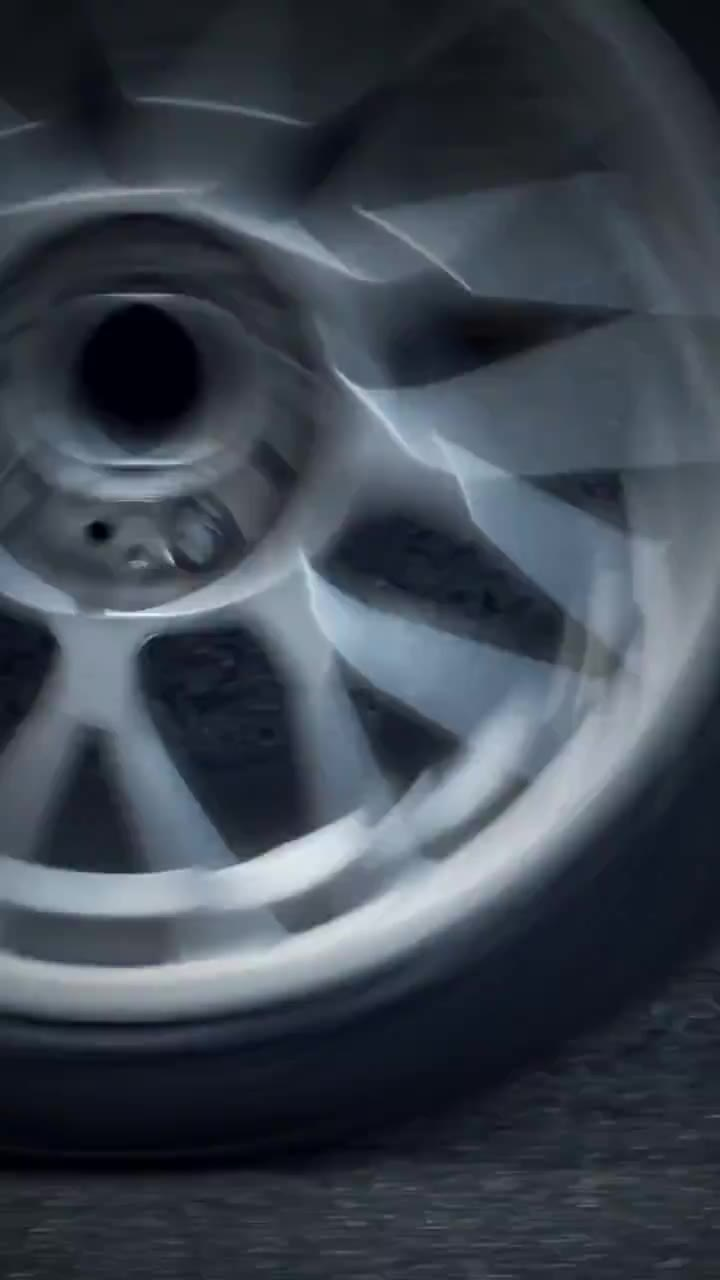
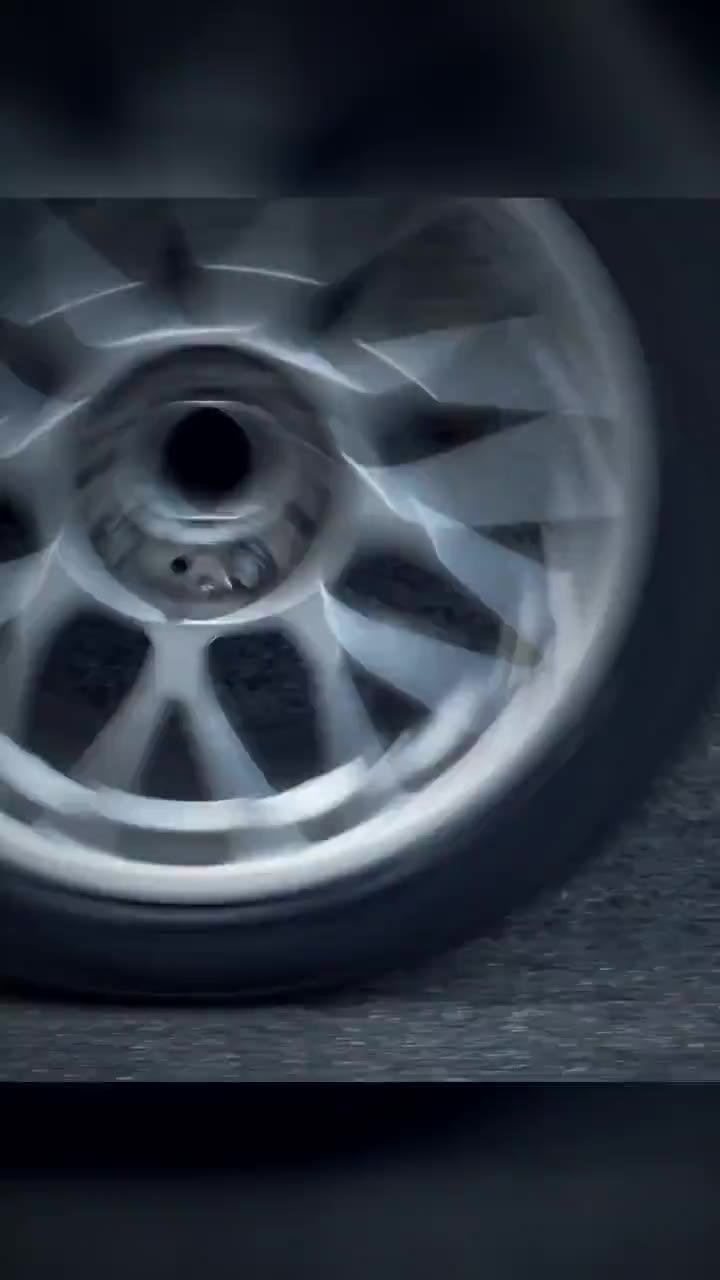
Hero: fix autoplay Safari (src directo + canPlayType), version movil alejada, moto 4s

diff --git a/index.html b/index.html
@@ -686,18 +686,11 @@
         if (!v) return;
         if (window.matchMedia('(prefers-reduced-motion: reduce)').matches) return;
         var isMobile = window.matchMedia('(max-width: 767px)').matches;
-        var srcs = isMobile
-          ? [['videos/hero-quesada-movil.webm', 'video/webm'],
-             ['videos/hero-quesada-movil.mp4', 'video/mp4']]
-          : [['videos/hero-quesada.webm', 'video/webm'],
-             ['videos/hero-quesada.mp4', 'video/mp4']];
         v.setAttribute('poster', isMobile ? 'videos/hero-poster-movil.jpg' : 'videos/hero-poster.jpg');
-        srcs.forEach(function (s) {
-          var el = document.createElement('source');
-          el.src = s[0];
-          el.type = s[1];
-          v.appendChild(el);
-        });
+        var canWebm = v.canPlayType('video/webm; codecs="vp9"');
+        var base = isMobile ? 'videos/hero-quesada-movil' : 'videos/hero-quesada';
+        v.muted = true;               // propiedad además del atributo (quirk Safari)
+        v.src = base + (canWebm ? '.webm' : '.mp4');
         v.load();
         var p = v.play();
         if (p && p.catch) p.catch(function () {});